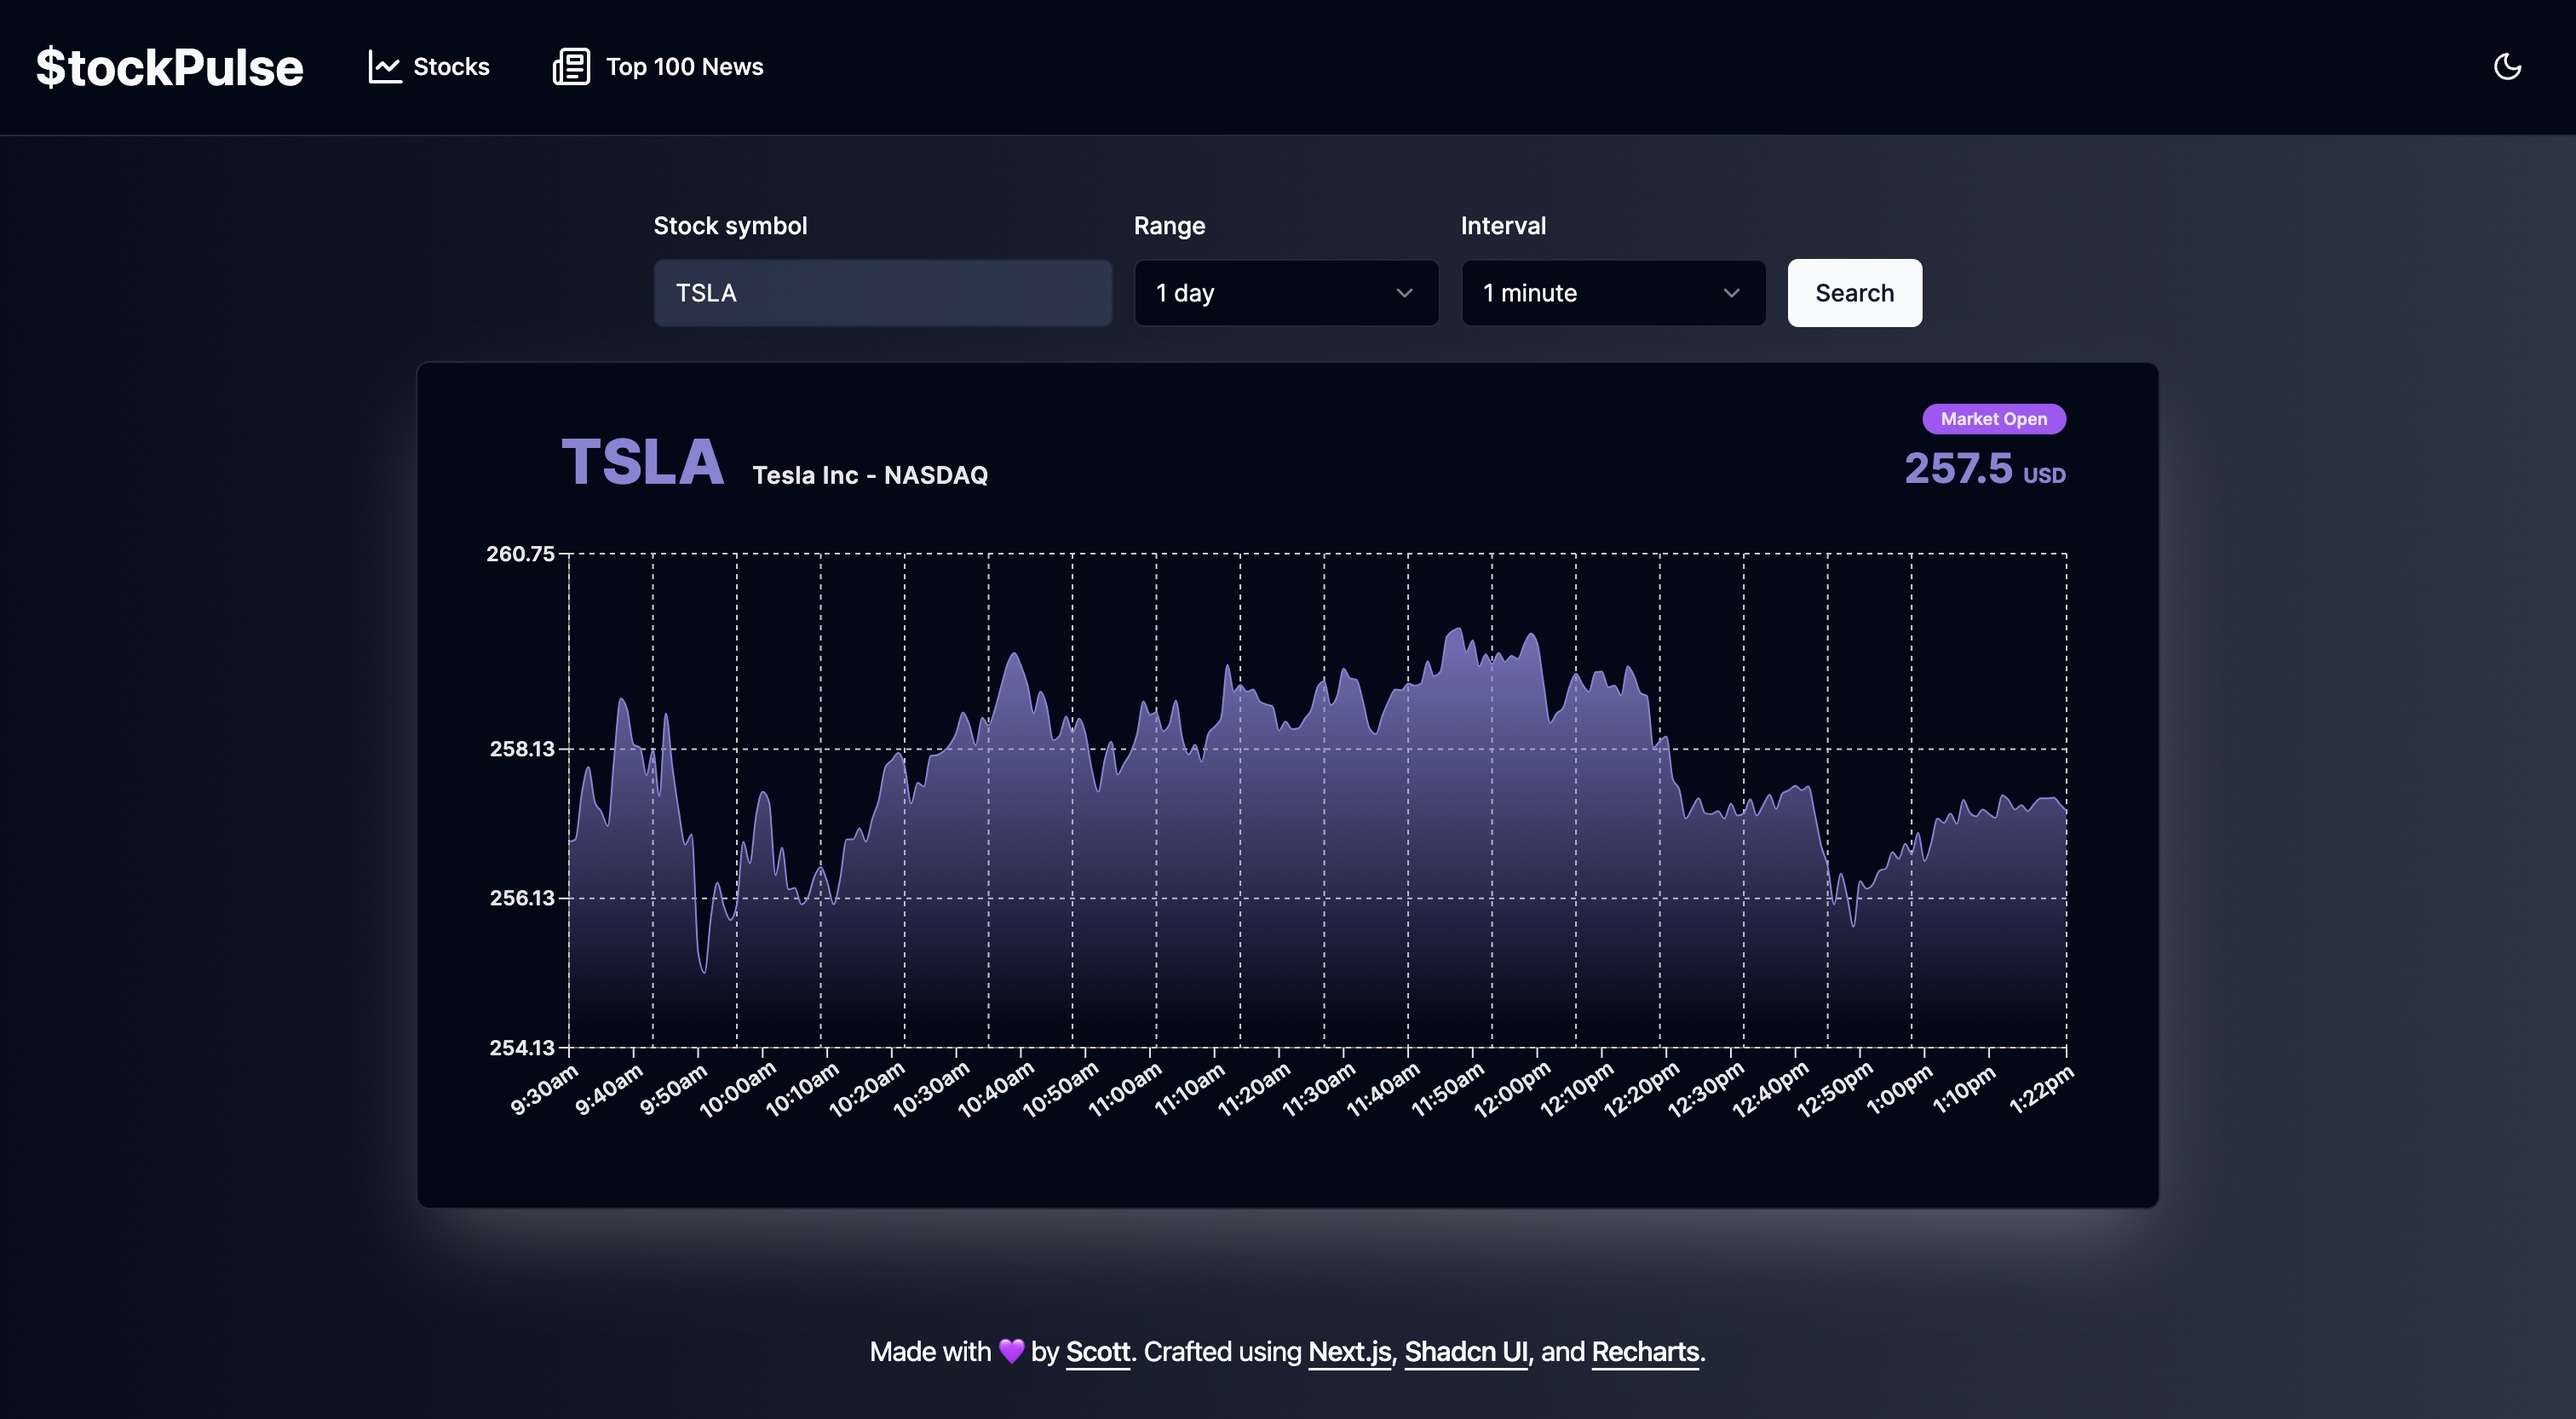
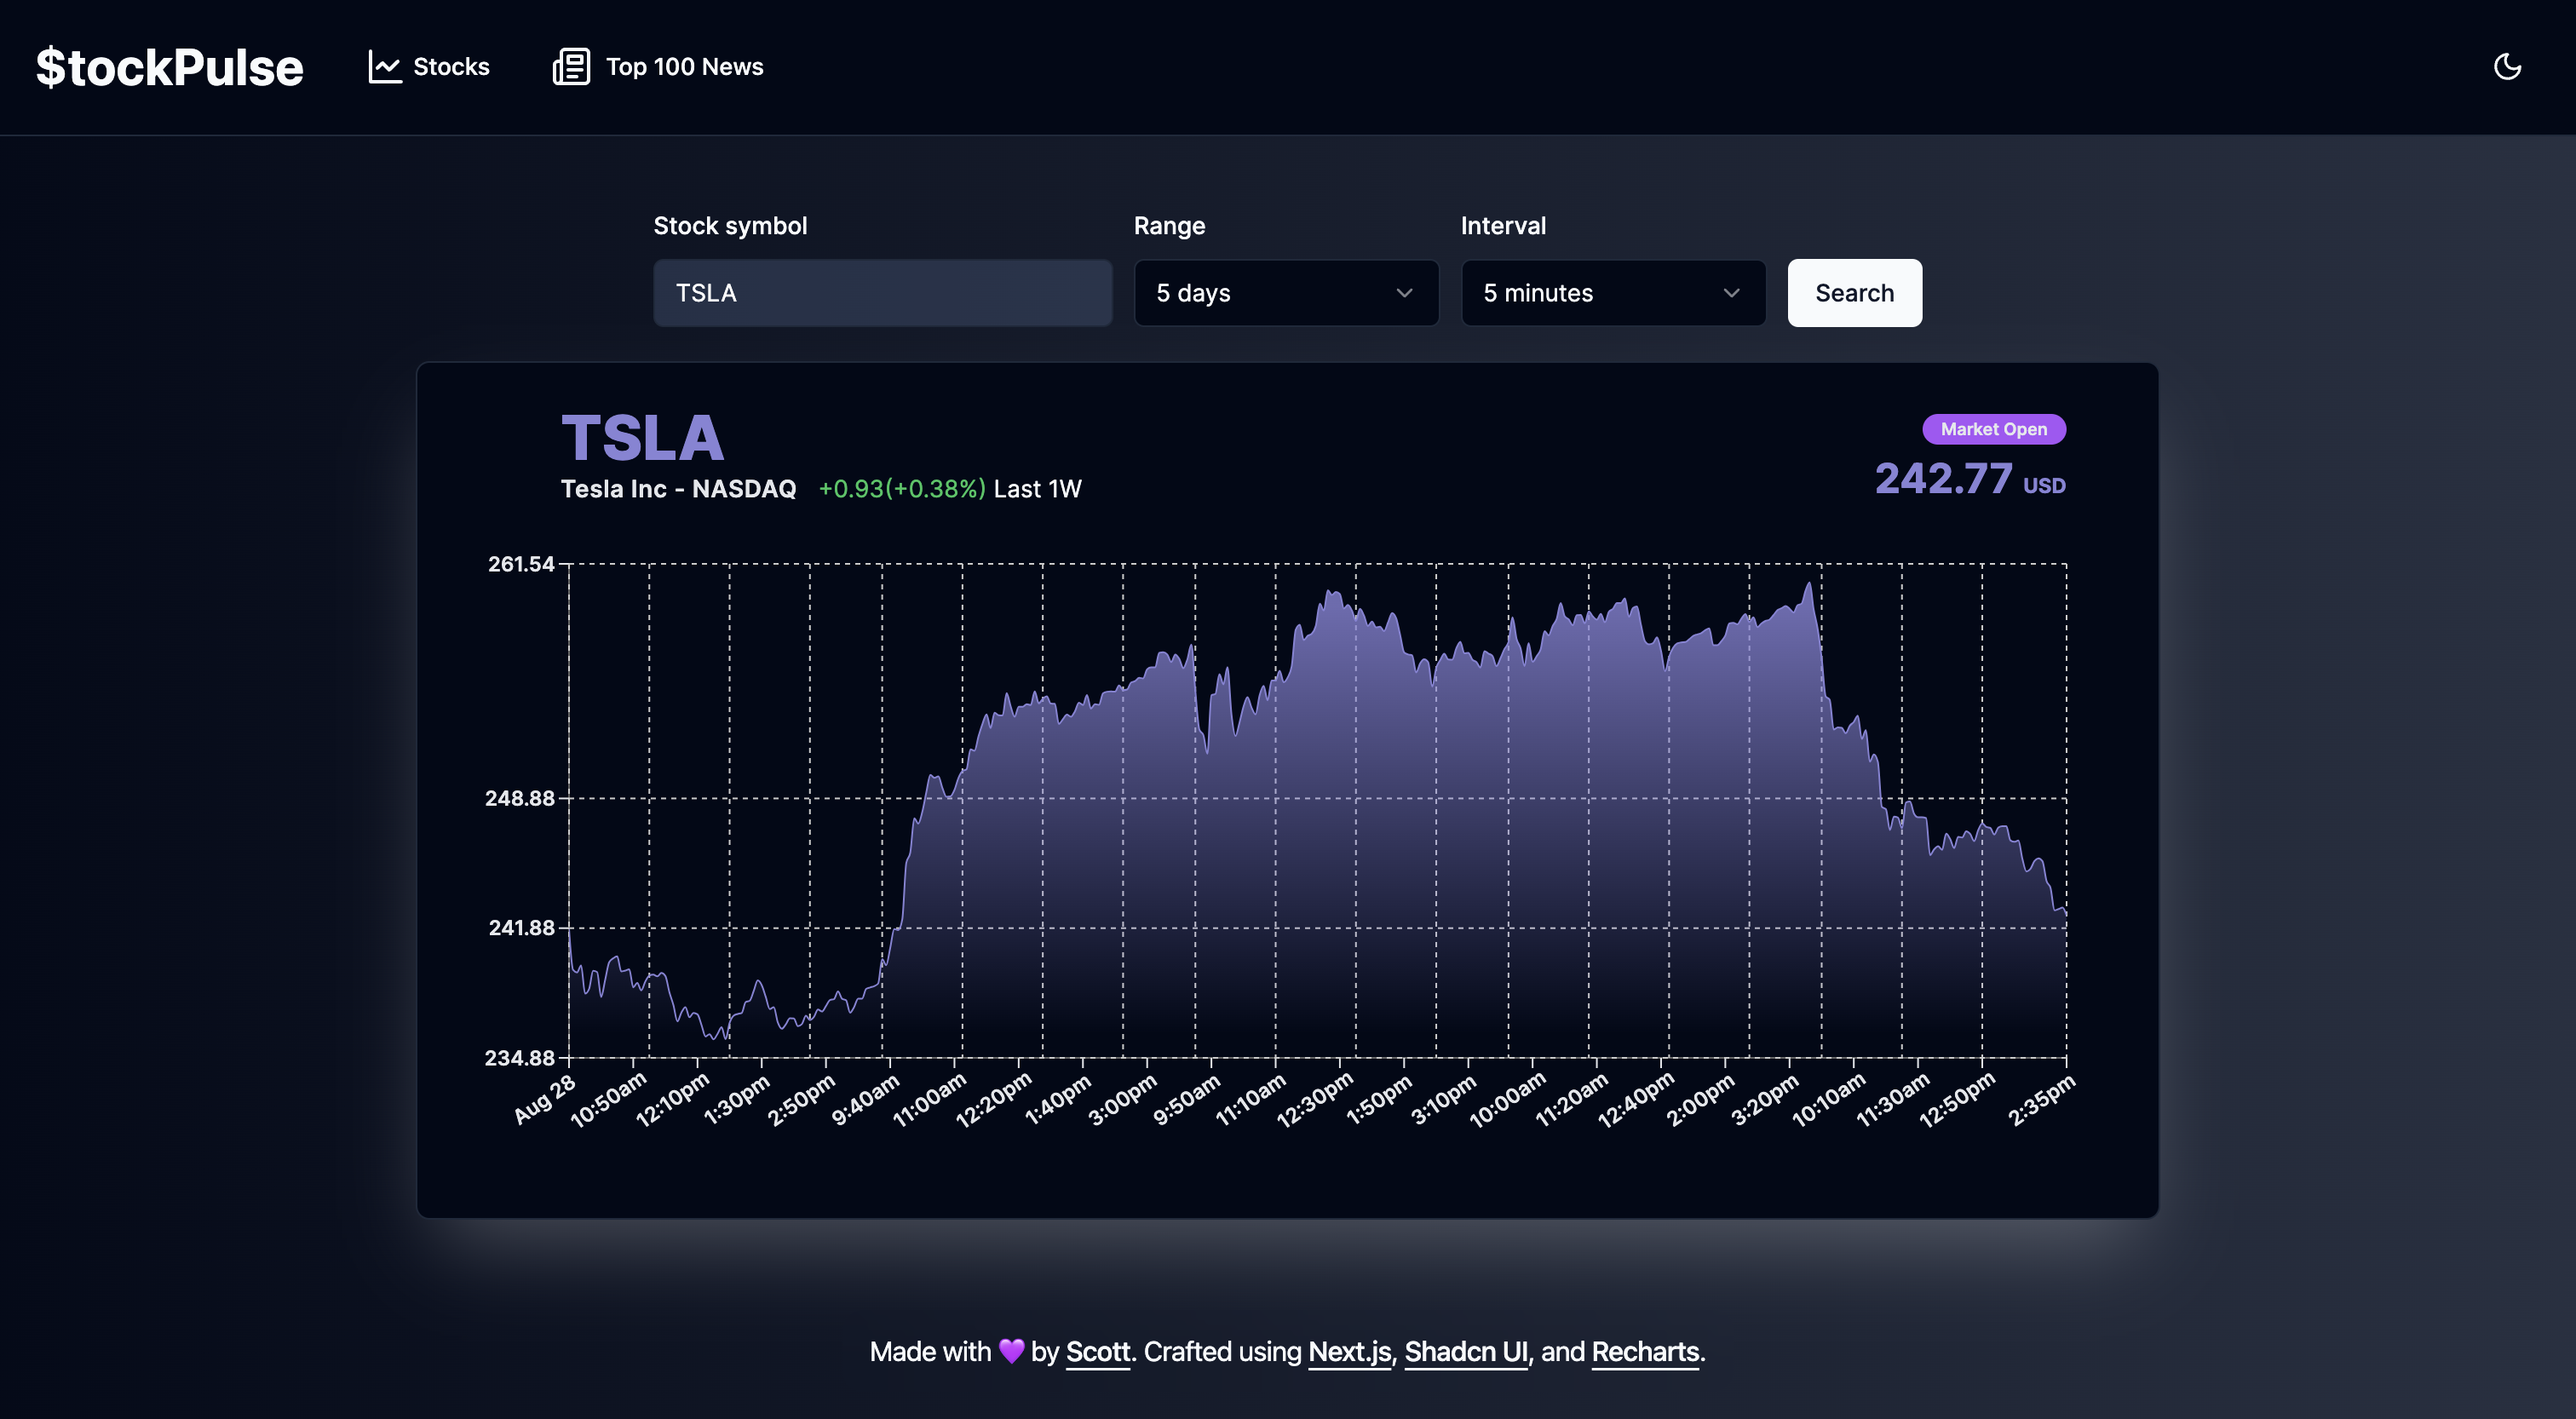
add price change and remove badge animation

diff --git a/components/AreaChart.tsx b/components/AreaChart.tsx
@@ -10,11 +10,17 @@ import {
 } from "recharts";
 import { useTheme } from "next-themes";
 
-import { memo } from "react";
+import { memo, useCallback } from "react";
 import { Badge } from "./ui/badge";
 import { StockTimeSeries } from "@/Interface/IStockData";
 import { StockQuote } from "@/Interface/IStockQuote";
 import { useLiveStockPrice } from "@/hooks/stock/useLiveStockPrice";
+import {
+  RangeUnit,
+  calculateLivePriceChange,
+  calculatePriceChange,
+  formatRange,
+} from "@/helpers/stock";
 
 type CustomTooltipProps = React.ComponentProps<typeof Tooltip>;
 
@@ -59,6 +65,7 @@ export default memo(function AreaChart({
   stockData,
   stockMeta,
   prevSymbol,
+  rangeUnit,
 }: {
   stockData: StockTimeSeries[];
   stockMeta: Pick<
@@ -66,6 +73,7 @@ export default memo(function AreaChart({
     "symbol" | "name" | "exchange" | "currency" | "is_market_open"
   >;
   prevSymbol: string;
+  rangeUnit: RangeUnit;
 }) {
   const { resolvedTheme } = useTheme();
   const {
@@ -82,35 +90,56 @@ export default memo(function AreaChart({
     isMarketOpen
   );
 
+  const memoLivePriceChange = useCallback(calculateLivePriceChange, [
+    stockData,
+    livePrice,
+  ]);
+  const memoPriceChange = useCallback(calculatePriceChange, [stockData]);
+  const memoRangeUnit = useCallback(formatRange, [rangeUnit]);
+
+  const { priceChange, changePercent } =
+    isMarketOpen && livePrice
+      ? memoLivePriceChange(stockData[0], livePrice)
+      : memoPriceChange(stockData);
+
   return (
     <Card className="mx-auto h-fit max-w-5xl shadow-2xl dark:shadow-[0_25px_50px_-12px_rgba(250,250,250,0.25);]">
       <CardHeader className="mx-auto">
         <div className="flex flex-col items-start justify-between space-y-4 sm:flex-row sm:items-end sm:space-y-0">
           <h1 className="ml-[60px] flex flex-col text-4xl font-extrabold text-[#8884d8] sm:block">
-            {symbol}{" "}
-            <span className="text-sm font-semibold tracking-wide text-[#374151] dark:text-[#e5e7eb] sm:ml-2">
+            <p>{symbol}</p>{" "}
+            <p className="text-sm font-semibold tracking-wide text-[#374151] dark:text-[#e5e7eb]">
               {`${name} - ${exchange}`}
-            </span>
+            </p>
           </h1>
-          <div className="item-start flex flex-col space-y-1 sm:items-end">
-            <div className="relative ml-[60px] flex sm:mr-[30px]">
-              <div
-                className={`absolute inline-flex h-full w-full ${
-                  isMarketOpen ? "animate-ping" : ""
-                } rounded-full ${
-                  isMarketOpen ? "bg-purple-400" : "bg-slate-400"
-                } opacity-75`}
-              ></div>
-              <Badge
-                className={`relative inline-flex h-fit w-fit ${
-                  isMarketOpen
-                    ? "bg-purple-500 hover:bg-purple-500"
-                    : "bg-slate-500 hover:bg-slate-500"
-                }  text-[10px] leading-3 hover:bg-slate-500 dark:text-[#e5e7eb]`}
+          <div
+            className="order-last ml-[60px] sm:order-none sm:ml-0 sm:mr-auto"
+            style={{
+              marginTop: 0,
+            }}
+          >
+            <p className={`text-sm sm:ml-3`}>
+              <span
+                className={`${
+                  +priceChange > 0 ? "text-green-500" : "text-red-500"
+                }`}
               >
-                {isMarketOpen ? "Market Open" : "Market Closed"}
-              </Badge>
-            </div>
+                {priceChange}({changePercent})
+              </span>{" "}
+              {memoRangeUnit(rangeUnit)}
+            </p>
+          </div>
+
+          <div className="item-start flex flex-col space-y-1 sm:items-end">
+            <Badge
+              className={`ml-[60px] h-fit w-fit sm:mr-[30px] ${
+                isMarketOpen
+                  ? "bg-purple-500 hover:bg-purple-500"
+                  : "bg-slate-500 hover:bg-slate-500"
+              }  text-[10px] leading-3 dark:text-[#e5e7eb]`}
+            >
+              {isMarketOpen ? "Market Open" : "Market Closed"}
+            </Badge>
 
             <p className="ml-[60px] text-2xl font-bold text-[#8884d8] sm:ml-0 sm:mr-[30px]">
               {/* if market is closed then show last closing price */}

diff --git a/helpers/stock.ts b/helpers/stock.ts
@@ -49,4 +49,58 @@ const formatListOfStockTimes = (stocks: StockData, rangeUnit: string) => {
   return { ...stocks, values: formattedTimes };
 };
 
-export { formatListOfStockTimes };
+const calculatePriceChange = (stock: StockTimeSeries[]) => {
+  const firstValue = stock[0].close;
+  const lastValue = stock[stock.length - 1].close;
+  const change = +lastValue - +firstValue;
+  const changePercent = (change / +firstValue) * 100;
+  return {
+    priceChange: change > 0 ? `+${change.toFixed(2)}` : change.toFixed(2),
+    changePercent:
+      changePercent > 0
+        ? `+${changePercent.toFixed(2)}%`
+        : `${changePercent.toFixed(2)}%`,
+  };
+};
+
+const calculateLivePriceChange = (
+  stock: StockTimeSeries,
+  livePrice: number
+) => {
+  const value = +stock.close;
+  const change = livePrice - value;
+  const changePercent = (change / value) * 100;
+  return {
+    priceChange: change > 0 ? `+${change.toFixed(2)}` : change.toFixed(2),
+    changePercent:
+      changePercent > 0
+        ? `+${changePercent.toFixed(2)}%`
+        : `${changePercent.toFixed(2)}%`,
+  };
+};
+
+export type RangeUnit =
+  | "1day"
+  | "5days"
+  | "1month"
+  | "3months"
+  | "6months"
+  | "year";
+const formatRange = (rangeUnit: RangeUnit) => {
+  const rangeOptions = {
+    "1day": "Today",
+    "5days": "Last 1W",
+    "1month": "Last 1M",
+    "3months": "Last 3M",
+    "6months": "Last 6M",
+    year: "YTD",
+  };
+  return rangeOptions[rangeUnit];
+};
+
+export {
+  formatListOfStockTimes,
+  calculatePriceChange,
+  calculateLivePriceChange,
+  formatRange,
+};

diff --git a/components/Dashboard.tsx b/components/Dashboard.tsx
@@ -4,7 +4,7 @@ import AreaChart from "./AreaChart";
 import Alert from "./Alert";
 import Loading from "./Loading";
 
-import { formatListOfStockTimes } from "@/helpers/stock";
+import { RangeUnit, formatListOfStockTimes } from "@/helpers/stock";
 import { useSearchStock } from "@/hooks/stock/useSearchStock";
 import { useStockQuote } from "@/hooks/stock/useStockQuote";
 
@@ -84,6 +84,7 @@ export default function Dashboard() {
           stockData={memoStockData(stockData as StockData, rangeUnit).values}
           stockMeta={memoStockMeta}
           prevSymbol={prevSymbol}
+          rangeUnit={rangeUnit as RangeUnit}
         />
       )}
     </div>
